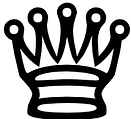
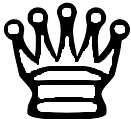
colored in the white pieces

diff --git a/Chess Game Clone/Chess.html b/Chess Game Clone/Chess.html
@@ -11,28 +11,28 @@
             <div class="row8">
                 <div class="square1">
                     <div class="row-number">8</div>
-                    <img class="black-rook" src="chess-pieces/black-rook.png">
+                    <img class="black-rook, rook" src="chess-pieces/black-rook.png">
                 </div>
                 <div class="square2">
-                    <img class="black-knight" src="chess-pieces/black-knight.png">
+                    <img class="black-knight, knight" src="chess-pieces/black-knight.png">
                 </div>
                 <div class="square3">
-                    <img class="black-bishop" src="chess-pieces/black-bishop.png">
+                    <img class="black-bishop. bishop" src="chess-pieces/black-bishop.png">
                 </div>
                 <div class="square4">
-                    <img class="black-queen" src="chess-pieces/black-queen.png">
+                    <img class="black-queen, queen" src="chess-pieces/black-queen.png">
                 </div>
                 <div class="square5">
-                    <img class="black-king" src="chess-pieces/black-king.png">
+                    <img class="black-king, king" src="chess-pieces/black-king.png">
                 </div>
                 <div class="square6">
-                    <img class="black-bishop" src="chess-pieces/black-bishop.png">
+                    <img class="black-bishop, bishop" src="chess-pieces/black-bishop.png">
                 </div>
                 <div class="square7">
-                    <img class="black-knight" src="chess-pieces/black-knight.png">
+                    <img class="black-knight, knight" src="chess-pieces/black-knight.png">
                 </div>
                 <div class="square8">
-                    <img class="black-rook" src="chess-pieces/black-rook.png">
+                    <img class="black-rook, rook" src="chess-pieces/black-rook.png">
                 </div>
             </div>
             <div class="row7">
@@ -141,40 +141,38 @@
                 <div class="square1">
                     <div class="row-number">1</div>
                     <div class="column-letter">A</div>
-                    <img class="white-rook" src="chess-pieces/white-rook.png">
+                    <img class="white-rook, rook" src="chess-pieces/white-rook.png">
                 </div>
                 <div class="square2">
                     <div class="column-letter">B</div>
-                    <img class="white-knight, pawn" src="chess-pieces/white-knight.png">
+                    <img class="white-knight, knight" src="chess-pieces/white-knight.png">
                 </div>
                 <div class="square3">
                     <div class="column-letter">C</div>
-                    <img class="white-bishop, pawn" src="chess-pieces/white-bishop.png">
+                    <img class="white-bishop, bishop" src="chess-pieces/white-bishop.png">
                 </div>
                 <div class="square4">
                     <div class="column-letter">D</div>
-                    <img class="white-queen, pawn" src="chess-pieces/white-queen.png">
+                    <img class="white-queen, queen" src="chess-pieces/white-queen.png">
                 </div>
                 <div class="square5">
                     <div class="column-letter">E</div>
-                    <img class="white-king, pawn" src="chess-pieces/white-king.png">
+                    <img class="white-king, king" src="chess-pieces/white-king.png">
                 </div>
                 <div class="square6">
                     <div class="column-letter">F</div>
-                    <img class="white-bishop, pawn" src="chess-pieces/white-bishop.png">
+                    <img class="white-bishop, bishop" src="chess-pieces/white-bishop.png">
                 </div>
                 <div class="square7">
                     <div class="column-letter">G</div>
-                    <img class="white-knight, pawn" src="chess-pieces/white-knight.png">
+                    <img class="white-knight, knight" src="chess-pieces/white-knight.png">
                 </div>
                 <div class="square8">
                     <div class="column-letter">H</div>
-                    <img class="white-rook, pawn" src="chess-pieces/white-rook.png">
+                    <img class="white-rook, rook" src="chess-pieces/white-rook.png">
                 </div>
             </div>
         </section>
-        <script>
-            
-        </script>
+        <script href="chess.js"></script>
     </body>
 </html>

diff --git a/Chess Game Clone/styles/chess-pieces.css b/Chess Game Clone/styles/chess-pieces.css
@@ -4,11 +4,52 @@ body{
 
 .pawn{
     position: absolute;
-    height: 80px;
-    width: 80px;
-    top: 12px;
-    left: 12px;
+    height: 70px;
+    width: 70px;
+    top: 14px;
+    left: 14px;
 }
+
+.queen{
+    position: absolute;
+    height: 70px;
+    width: 70px;
+    top: 14px;
+    left: 14px;
+}
+
+.king{
+    position: absolute;
+    height: 70px;
+    width: 70px;
+    top: 14px;
+    left: 14px;
+}
+
+.knight{
+    position: absolute;
+    height: 70px;
+    width: 70px;
+    top: 14px;
+    left: 14px;
+}
+
+.rook{
+    position: absolute;
+    height: 70px;
+    width: 70px;
+    top: 14px;
+    left: 14px;
+}  
+
+.bishop{
+    position: absolute;
+    height: 70px;
+    width: 70px;
+    top: 14px;
+    left: 14px;
+}
+
 
 .black-queen{
     width: 80px;

diff --git a/Chess Game Clone/chess.js b/Chess Game Clone/chess.js
@@ -1,0 +1,3 @@
+function insertPieces(){
+    document.querySelectorAll(div)
+}
